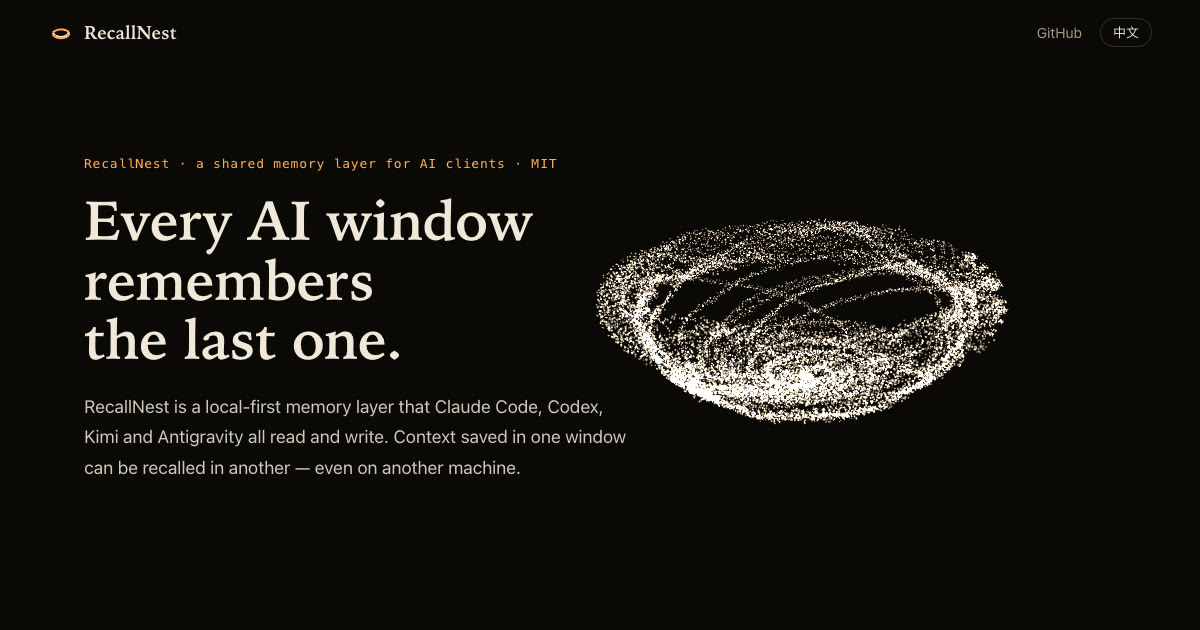
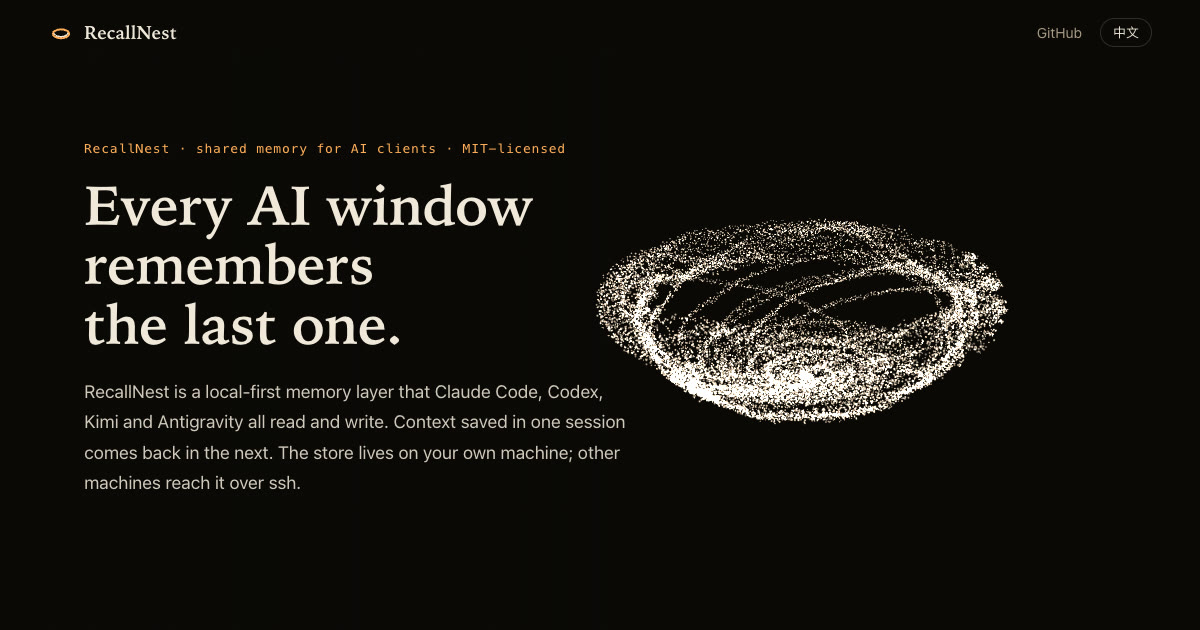
fix(site): first-screen wording and phone layout after a blind read
A fresh reader given only the first screen understood the product but
asked where the data lives and read a bare "MIT" as the university.
The lede now says the store lives on your own machine and other machines
reach it over ssh, and the kicker says MIT-licensed.

Phone layout: the scene now sits in the space above each beat's text
instead of a fixed lift, the shade starts just above the text, ring
labels are pushed apart, and the last section scrolls normally because
it is taller than a 375 x 667 screen.

Changed region(s): [[0.0617, 0.2111, 0.4625, 0.573], [0.0617, 0.6032, 0.5242, 0.7841]]

diff --git a/site/main.js b/site/main.js
@@ -33,8 +33,16 @@
   // ---------- layout and scroll mapping ----------
   function isPortrait() { return window.innerWidth < 760 || window.innerWidth / window.innerHeight < 0.9; }
 
-  var anchors = [];
+  var anchors = [], textTops = [], headerBottom = 64;
   function measure() {
+    var bar = document.querySelector('.bar');
+    headerBottom = bar ? bar.getBoundingClientRect().bottom : 64;
+    // where each section's copy starts while it is stuck (portrait layout puts the scene above it)
+    textTops = sections.map(function (s) {
+      var copy = s.querySelector('.copy');
+      if (!copy || getComputedStyle(copy).position !== 'sticky' || !copy.firstElementChild) return null;
+      return copy.firstElementChild.offsetTop;
+    });
     var max = Math.max(0, document.documentElement.scrollHeight - window.innerHeight);
     anchors = sections.map(function (s, i) {
       if (i === 0) return 0;
@@ -396,7 +404,7 @@
   }
 
   // ---------- frame ----------
-  var state = { g: 0, raw: 0 }, dpr = 1, W = 0, H = 0, start = 0, last = 0, dirty = true, readyFrames = 0;
+  var state = { g: 0, raw: 0 }, dpr = 1, W = 0, H = 0, start = 0, last = 0, dirty = true, readyFrames = 0, lastFade = -1;
   var pointer = { x: 0, y: 0, sx: 0, sy: 0, on: 0 };
 
   function resize() {
@@ -427,7 +435,16 @@
       ry += 0.06 * Math.sin(t * 0.13) + (port ? 0 : pointer.sx * 0.08);
       rx += 0.02 * Math.sin(t * 0.11) - (port ? 0 : pointer.sy * 0.05);
     }
-    var off = port ? [0, 0.27] : [0.34, 0.02];
+    var off = [0.34, 0.02];
+    if (port) {
+      var ta = textTops[a], tb = textTops[b];
+      var ya = ta == null ? 0.27 : Math.min(0.42, Math.max(0.2, 1 - (headerBottom + ta) / H));
+      var yb = tb == null ? 0.27 : Math.min(0.42, Math.max(0.2, 1 - (headerBottom + tb) / H));
+      off = [0, ya + (yb - ya) * e];
+      var fa = ta == null ? H * 0.5 : ta, fb = tb == null ? H * 0.5 : tb;
+      var fade = Math.round(fa + (fb - fa) * e);
+      if (fade !== lastFade) { root.style.setProperty('--fade', fade + 'px'); lastFade = fade; }
+    }
     var mvp = mul(perspective(40 * Math.PI / 180, W / H, 0.1, 60), viewMatrix(rx, ry, dist));
 
     if (api.gl) {
@@ -460,7 +477,7 @@
       if (lw <= 0.01 || !api.gl) { if (el.style.opacity !== '0') el.style.opacity = '0'; continue; }
       var anchor = w1 >= w6
         ? [clients[c][0], clients[c][1] - (port ? 0.5 : 0.62), clients[c][2]]
-        : [homeCenters[c][0], 0, homeCenters[c][2] + (port ? 0.3 : 0.36)];
+        : [homeCenters[c][0] * (port ? 1.28 : 1), 0, homeCenters[c][2] + (port ? 0.3 : 0.36)];
       var q = project(mvp, anchor, off);
       var x = (q[0] + 1) / 2 * W, y = (1 - q[1]) / 2 * H;
       var edge = Math.min(1, Math.max(0, Math.min(x - 8, W - x - 8, y - 70, H - y - 8) / 40));

diff --git a/site/index.html b/site/index.html
@@ -57,9 +57,9 @@
 <main>
   <section id="hero">
     <div class="copy">
-      <p class="kicker"><span class="zh">RecallNest · 给 AI 客户端用的共享记忆层 · MIT 开源</span><span class="en">RecallNest · a shared memory layer for AI clients · MIT</span></p>
+      <p class="kicker"><span class="zh">RecallNest · 给 AI 客户端用的共享记忆层 · MIT 开源</span><span class="en">RecallNest · shared memory for AI clients · MIT-licensed</span></p>
       <h1><span class="zh">每个 AI 窗口，<br>都记得上一个窗口。</span><span class="en">Every AI window remembers the last one.</span></h1>
-      <p class="lede"><span class="zh">RecallNest 是一层本地优先的共享记忆：Claude Code、Codex、Kimi、Antigravity 读写同一个记忆库。一个窗口里存下的上下文，换个窗口、换台机器也能召回。</span><span class="en">RecallNest is a local-first memory layer that Claude Code, Codex, Kimi and Antigravity all read and write. Context saved in one window can be recalled in another — even on another machine.</span></p>
+      <p class="lede"><span class="zh">RecallNest 是一层本地优先的共享记忆：Claude Code、Codex、Kimi、Antigravity 读写同一个记忆库。一个会话里存下的上下文，下个会话还能召回。记忆库放在你自己的机器上，别的机器走 ssh 连过来。</span><span class="en">RecallNest is a local-first memory layer that Claude Code, Codex, Kimi and Antigravity all read and write. Context saved in one session comes back in the next. The store lives on your own machine; other machines reach it over ssh.</span></p>
       <p class="actions">
         <a class="btn primary" href="https://github.com/AliceLJY/recallnest"><span class="zh">在 GitHub 上看</span><span class="en">View on GitHub</span></a>
         <a class="btn" href="#install"><span class="zh">怎么装</span><span class="en">Install</span></a>

diff --git a/site/style.css b/site/style.css
@@ -179,7 +179,7 @@ p { margin: 0 0 16px; }
   margin-top: 40px;
   font: 12px/1 var(--mono);
   letter-spacing: 0.12em;
-  color: var(--muted);
+  color: rgba(241, 232, 218, 0.66);
 }
 
 .chips, .facts {
@@ -223,9 +223,10 @@ footer a { color: var(--ink); }
 @media (max-width: 759px), (max-aspect-ratio: 9/10) {
   body { font-size: 16px; }
   .shade {
-    background: linear-gradient(180deg, rgba(11, 9, 7, 0) 34%, rgba(11, 9, 7, 0.78) 50%, rgba(11, 9, 7, 0.94) 66%);
+    background: linear-gradient(180deg, rgba(11, 9, 7, 0) calc(var(--fade, 50vh) - 90px), rgba(11, 9, 7, 0.82) calc(var(--fade, 50vh) - 12px), rgba(11, 9, 7, 0.94) calc(var(--fade, 50vh) + 60px));
   }
   .dots { display: none; }
+  .client { font-size: 11px; letter-spacing: 0.02em; }
   section { padding: 0 22px; }
   .copy {
     justify-content: flex-end;
@@ -234,6 +235,9 @@ footer a { color: var(--ink); }
     min-height: 100vh;
   }
   #hero .copy { padding-bottom: calc(28px + env(safe-area-inset-bottom)); }
+  .copy { padding-top: 76px; }
+  #install { min-height: 100vh; }
+  #install .copy { position: static; min-height: 0; padding-top: 88px; }
   h1 { font-size: clamp(2.1rem, 9vw, 2.8rem); }
   h2 { font-size: clamp(1.55rem, 6.6vw, 2rem); }
   .lede { font-size: 1.02rem; }

diff --git a/site/SPEC.md b/site/SPEC.md
@@ -58,8 +58,11 @@ headings, system sans for body, `ui-monospace` for labels and code.
 
 - Landscape (width ≥ 760 px and wider than tall): copy column on the left (max 30 rem), scene shifted
   right by 0.30 in clip space, a left-side shade behind the copy.
-- Portrait: scene shifted up by 0.30, copy pinned to the lower half with a bottom shade, recall hits
-  laid out as a row instead of a column.
+- Portrait: the scene sits in the space between the header and the current beat's text (lifted by
+  0.2–0.42 in clip space, measured from where that section's copy starts); a shade starts just above
+  the text; recall hits are laid out as a row; client labels on the ring are pushed outward so they
+  do not collide. The last section scrolls normally instead of sticking, because on a 375 × 667
+  phone it is taller than the screen.
 - Copy blocks are `position: sticky` inside 140 vh sections, so text stays put while a shape holds.
 
 ## Budget
@@ -103,8 +106,10 @@ headings, system sans for body, `ui-monospace` for labels and code.
 1. **First screen**: a fresh agent that has not seen this spec gets only the first-screen screenshots
    (desktop and phone) and is asked what this is and who it is for. Pass if it says, in substance,
    "a shared / persistent memory layer for AI coding agents or MCP clients".
-2. **Per-beat screenshots** at 1440 × 900 and 390 × 844, both languages: no text box overflows the
-   viewport and no two text boxes overlap (checked from DOM rectangles), read by eye for legibility.
+2. **Per-beat screenshots** at 1440 × 900, 390 × 844 and 375 × 667, both languages: no text box
+   overflows the viewport, no two text boxes overlap, no client label sits on text or on another
+   label, sticky text never hides under the header, and the first screen's buttons are fully visible
+   (all checked from DOM rectangles); read by eye for legibility.
 3. **Round trip**: with `?still`, the screenshot at each beat taken on the way down equals the one
    taken on the way back up (pixel difference under 0.5 %).
 4. **Weight**: total bytes of the first load under 60 KB (excluding `og.jpg`, which the page never
